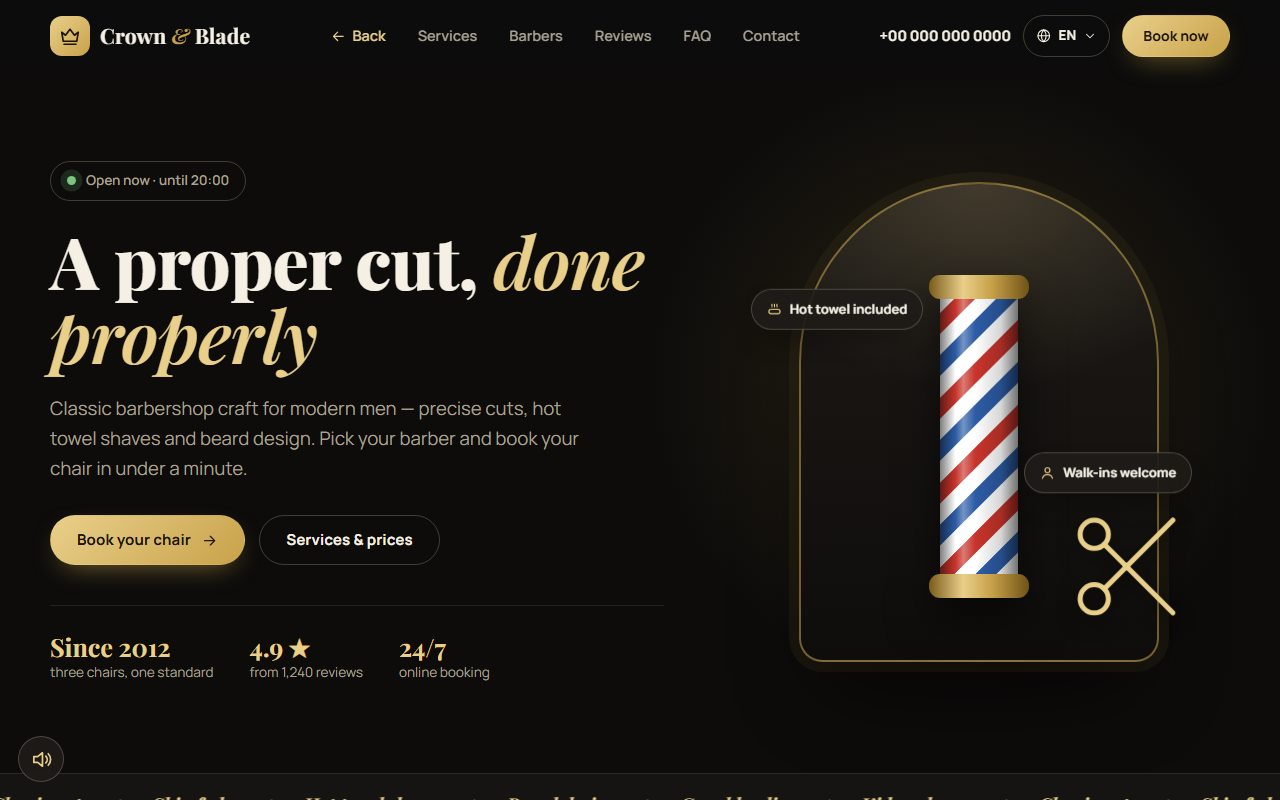
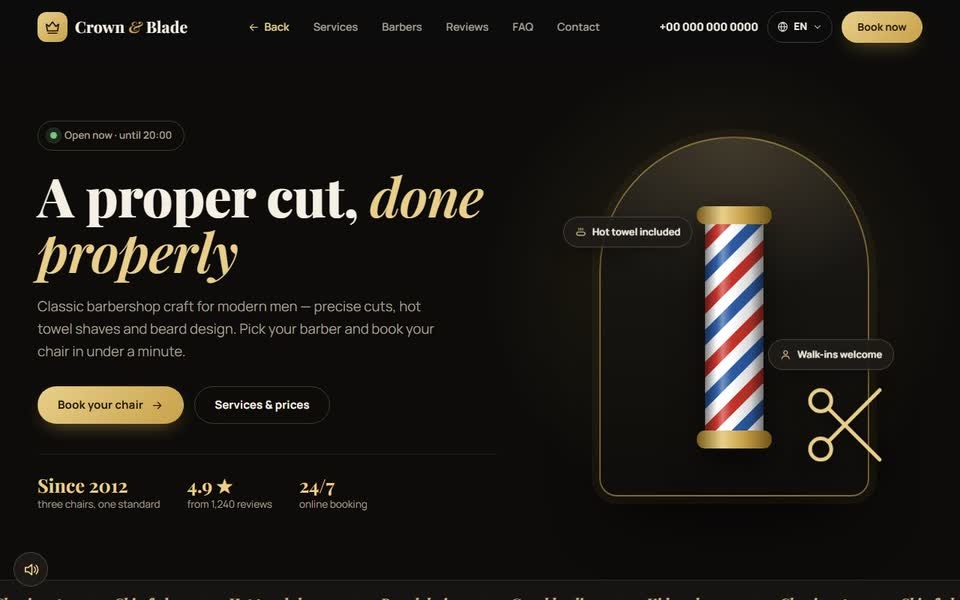
Performance pass: lighter demo screenshots, lazy poster and country list, content-visibility for sections, light mode for weak devices

Changed region(s): [[0.2188, 0.66, 0.3125, 0.69], [0.0625, 0.66, 0.1562, 0.69], [0.7188, 0.03, 0.75, 0.06]]

diff --git a/index.html b/index.html
@@ -17,6 +17,7 @@
      stale cached copy — force a real reload that bypasses the
      cache. Bump PAGE_BUILD here AND the number in version.json on
      every deploy that changes css/js/images/markup. -->
+<script>try{var n=navigator,c=n.connection||{};if((n.hardwareConcurrency&&n.hardwareConcurrency<=4)||(n.deviceMemory&&n.deviceMemory<=4)||c.saveData){document.documentElement.className+=' perf-lite'}}catch(e){}</script>
 <script>
 (function(){
   var PAGE_BUILD = 58;
@@ -97,7 +98,7 @@
 <link href="https://fonts.googleapis.com/css2?family=Space+Grotesk:wght@400;500;600;700&family=Inter:wght@400;500;600&display=swap" rel="stylesheet" media="print" onload="this.media='all'">
 <noscript><link href="https://fonts.googleapis.com/css2?family=Space+Grotesk:wght@400;500;600;700&family=Inter:wght@400;500;600&display=swap" rel="stylesheet"></noscript>
 
-<link rel="stylesheet" href="css/style.css?v=98">
+<link rel="stylesheet" href="css/style.css?v=99">
 </head>
 <body>
 
@@ -194,7 +195,7 @@
       <p class="section-intro" data-i18n="video_intro">A short video about the services and the five demo websites — with a voice-over in your language.</p>
     </div>
     <div class="video-frame">
-      <video id="introVideo" data-key="en" controls playsinline preload="none" poster="images/video-poster-en.jpg?v=3" src="videos/webworks-en.mp4?v=5" data-i18n-aria="video_aria" aria-label="Introduction video"></video>
+      <video id="introVideo" data-key="en" controls playsinline preload="none" src="videos/webworks-en.mp4?v=5" data-i18n-aria="video_aria" aria-label="Introduction video"></video>
     </div>
   </div>
 </section>
@@ -377,7 +378,7 @@
             <span class="mock-dot"></span><span class="mock-dot"></span><span class="mock-dot"></span>
             <span class="mock-url">AutoService — demo</span>
           </div>
-          <img src="images/autoservice-demo.jpg?v=3" alt="Screenshot of the AutoService demo website" data-i18n-alt="alt_p1" loading="lazy">
+          <img src="images/autoservice-demo.jpg?v=9" alt="Screenshot of the AutoService demo website" data-i18n-alt="alt_p1" width="960" height="600" loading="lazy" decoding="async">
         </a>
       </div>
       <div>
@@ -414,7 +415,7 @@
             <span class="mock-dot"></span><span class="mock-dot"></span><span class="mock-dot"></span>
             <span class="mock-url">Crown &amp; Blade — demo</span>
           </div>
-          <img src="images/barbershop-demo.jpg?v=1" alt="Screenshot of the Crown &amp; Blade barbershop demo website" data-i18n-alt="alt_p2" loading="lazy">
+          <img src="images/barbershop-demo.jpg?v=9" alt="Screenshot of the Crown &amp; Blade barbershop demo website" data-i18n-alt="alt_p2" width="960" height="600" loading="lazy" decoding="async">
         </a>
       </div>
       <div>
@@ -451,7 +452,7 @@
             <span class="mock-dot"></span><span class="mock-dot"></span><span class="mock-dot"></span>
             <span class="mock-url">VoltForge — demo</span>
           </div>
-          <img src="images/electronics-demo.jpg?v=1" alt="Screenshot of the VoltForge electronics demo website" data-i18n-alt="alt_p3" loading="lazy">
+          <img src="images/electronics-demo.jpg?v=9" alt="Screenshot of the VoltForge electronics demo website" data-i18n-alt="alt_p3" width="960" height="600" loading="lazy" decoding="async">
         </a>
       </div>
       <div>
@@ -488,7 +489,7 @@
             <span class="mock-dot"></span><span class="mock-dot"></span><span class="mock-dot"></span>
             <span class="mock-url">OrderFlow — demo</span>
           </div>
-          <img src="images/business-tools-demo.jpg?v=1" alt="Screenshot of the OrderFlow business tools demo website" data-i18n-alt="alt_p4" loading="lazy">
+          <img src="images/business-tools-demo.jpg?v=9" alt="Screenshot of the OrderFlow business tools demo website" data-i18n-alt="alt_p4" width="960" height="600" loading="lazy" decoding="async">
         </a>
       </div>
       <div>
@@ -525,7 +526,7 @@
             <span class="mock-dot"></span><span class="mock-dot"></span><span class="mock-dot"></span>
             <span class="mock-url">ClearForm — demo</span>
           </div>
-          <img src="images/contact-forms-demo.jpg?v=1" alt="Screenshot of the ClearForm contact forms demo website" data-i18n-alt="alt_p5" loading="lazy">
+          <img src="images/contact-forms-demo.jpg?v=9" alt="Screenshot of the ClearForm contact forms demo website" data-i18n-alt="alt_p5" width="960" height="600" loading="lazy" decoding="async">
         </a>
       </div>
       <div>
@@ -653,9 +654,9 @@
     <div class="inquiry-form" id="projectForm">
       <div class="inquiry-head">
         <div class="inquiry-devices" aria-hidden="true">
-          <div class="dev dev-tablet"><img src="images/barbershop-demo.jpg?v=1" alt="" loading="lazy" decoding="async"></div>
-          <div class="dev dev-laptop"><img src="images/autoservice-demo.jpg?v=1" alt="" loading="lazy" decoding="async"><span class="dev-base"></span></div>
-          <div class="dev dev-phone"><img src="images/business-tools-demo.jpg?v=1" alt="" loading="lazy" decoding="async"></div>
+          <div class="dev dev-tablet"><img src="images/barbershop-demo.jpg?v=9" alt="" loading="lazy" decoding="async"></div>
+          <div class="dev dev-laptop"><img src="images/autoservice-demo.jpg?v=9" alt="" loading="lazy" decoding="async"><span class="dev-base"></span></div>
+          <div class="dev dev-phone"><img src="images/business-tools-demo.jpg?v=9" alt="" loading="lazy" decoding="async"></div>
         </div>
         <span class="inquiry-ico" aria-hidden="true"><svg viewBox="0 0 24 24"><path d="M21 3 10 14"/><path d="M21 3 14.5 21l-4.5-7-7-4.5z"/></svg></span>
         <div class="inquiry-headtext">
@@ -804,6 +805,6 @@
   </div>
 </footer>
 
-<script src="js/script.js?v=84" defer></script>
+<script src="js/script.js?v=85" defer></script>
 </body>
 </html>

diff --git a/js/script.js b/js/script.js
@@ -717,7 +717,8 @@
     v.pause();
     var frame = v.parentNode;
     if (frame && frame.classList){ frame.classList.toggle("is-portrait", portrait); }
-    v.setAttribute("poster", "images/video-poster-" + key + ".jpg?v=3");
+    v.setAttribute("data-poster", "images/video-poster-" + key + ".jpg?v=3");
+    if (v.getAttribute("data-near")){ v.setAttribute("poster", v.getAttribute("data-poster")); }
     v.setAttribute("src", "videos/webworks-" + key + ".mp4?v=5");
     try { v.load(); } catch (e) { /* ignore */ }
   }
@@ -1120,14 +1121,19 @@
 
     if (!btn || !dropdown) return api;
 
-    dropdown.innerHTML = COUNTRY_CODES.map(function(c, i){
-      return '<div class="country-option" role="option" data-index="' + i + '" tabindex="-1">' +
-        // Decorative: the country name is written right next to the flag
-        '<img class="country-flag-img" src="https://flagcdn.com/24x18/' + c.iso2 + '.png" alt="" loading="lazy">' +
-        '<span class="country-option-code">' + c.code + '</span>' +
-        '<span class="country-option-name">' + localCountryName(c) + '</span>' +
-        '</div>';
-    }).join("");
+    var optionsBuilt = false;
+    function buildOptions(){
+      if (optionsBuilt) return;
+      optionsBuilt = true;
+      dropdown.innerHTML = COUNTRY_CODES.map(function(c, i){
+        return '<div class="country-option" role="option" data-index="' + i + '" tabindex="-1">' +
+          // Decorative: the country name is written right next to the flag
+          '<img class="country-flag-img" src="https://flagcdn.com/24x18/' + c.iso2 + '.png" alt="" loading="lazy">' +
+          '<span class="country-option-code">' + c.code + '</span>' +
+          '<span class="country-option-name">' + localCountryName(c) + '</span>' +
+          '</div>';
+      }).join("");
+    }
 
     function selectCountry(country){
       selected = country;
@@ -1146,6 +1152,7 @@
       btn.setAttribute("aria-expanded", "false");
     }
     function openDropdown(){
+      buildOptions();
       dropdown.classList.add("open");
       btn.setAttribute("aria-expanded", "true");
     }
@@ -1155,13 +1162,12 @@
       if (dropdown.classList.contains("open")){ closeDropdown(); } else { openDropdown(); }
     });
 
-    var options = dropdown.querySelectorAll(".country-option");
-    for (var oi = 0; oi < options.length; oi++){
-      options[oi].addEventListener("click", function(){
-        selectCountry(COUNTRY_CODES[Number(this.getAttribute("data-index"))]);
-        closeDropdown();
-      });
-    }
+    dropdown.addEventListener("click", function(e){
+      var opt = e.target.closest ? e.target.closest(".country-option") : null;
+      if (!opt) return;
+      selectCountry(COUNTRY_CODES[Number(opt.getAttribute("data-index"))]);
+      closeDropdown();
+    });
 
     document.addEventListener("click", function(e){
       if (box && !box.contains(e.target)){ closeDropdown(); }
@@ -2169,7 +2175,7 @@
       if (!running){ return; }
       requestAnimationFrame(frame);
       if (document.hidden) return;
-      if (ts - last < (window.innerWidth < 860 ? 66 : 42)) return;   // ~15 fps on phones, ~24 fps elsewhere
+      if (ts - last < ((window.innerWidth < 860 || document.documentElement.classList.contains("perf-lite")) ? 83 : 42)) return;   // ~15 fps on phones, ~24 fps elsewhere
       last = ts; tick += 1;
       ctx.clearRect(0, 0, W, H);
       ctx.textBaseline = "top";
@@ -2209,9 +2215,12 @@
     // code streams over the photo
     initCodeFx(document.getElementById("heroPhoto"), document.getElementById("codeFx"),
                { zones: [[0.02, 0.36, 0.04, 0.98], [0.72, 0.99, 0.02, 0.48]], alpha: 0.4, gap: 8.2 });
-    // code streams across the whole hero background (masked to the side margins in CSS)
-    initCodeFx(document.querySelector(".hero"), document.getElementById("heroBg"),
-               { zones: [[0, 1, 0.02, 0.98]], alpha: 0.28, gap: 11, fs: 13 });
+    // code streams across the whole hero background (masked to the side margins in CSS);
+    // skipped on weak devices ("perf-lite", set in <head>) and on phones
+    if (!document.documentElement.classList.contains("perf-lite") && window.innerWidth >= 700){
+      initCodeFx(document.querySelector(".hero"), document.getElementById("heroBg"),
+                 { zones: [[0, 1, 0.02, 0.98]], alpha: 0.28, gap: 11, fs: 13 });
+    }
   }
 
 
@@ -2353,5 +2362,19 @@
     var t = "2";
     try { var q = new URLSearchParams(location.search).get("formtheme"); if (q && /^[1-4]$/.test(q)) t = q; } catch (e) { /* ignore */ }
     f.setAttribute("data-theme", t);
+  })();
+
+  /* Intro video poster: fetched only when the video block is close to the screen. */
+  (function(){
+    var v = document.getElementById("introVideo");
+    if (!v) return;
+    function attach(){
+      v.setAttribute("data-near", "1");
+      var p = v.getAttribute("data-poster") || ("images/video-poster-" + (v.getAttribute("data-key") || "en") + ".jpg?v=3");
+      v.setAttribute("poster", p);
+    }
+    if (!("IntersectionObserver" in window)){ attach(); return; }
+    var io = new IntersectionObserver(function(e){ if (e[0].isIntersecting){ attach(); io.disconnect(); } }, { rootMargin: "400px 0px" });
+    io.observe(v);
   })();
 })();

diff --git a/css/style.css b/css/style.css
@@ -2085,3 +2085,19 @@
   .inquiry-form .messenger-opt-tg:has(input:checked){ background:linear-gradient(145deg, #2aabee, #1688c8); }
   .inquiry-form .messenger-opt-none:has(input:checked){ background:linear-gradient(145deg, #6f778c, #4a5164); color:#fff; }
   .inquiry-form .messenger-opt:has(input:checked) .messenger-icon{ background:rgba(255,255,255,.28); box-shadow:inset 0 0 0 1.5px rgba(255,255,255,.8); }
+
+  /* ==========================================================
+     PERFORMANCE II
+     - sections below the fold are only laid out / painted when they get close to the screen
+     - "perf-lite" (weak CPU / little memory / data saver): every infinite animation plays once and stops,
+       heavy layers (blur, hero canvas, glows) are off
+     ========================================================== */
+  #services, #what-i-build, #projects, #process, #why, #guarantees{
+    content-visibility:auto; contain-intrinsic-size:auto 560px;
+  }
+  .perf-lite *, .perf-lite *::before, .perf-lite *::after{ animation-iteration-count:1 !important; }
+  .perf-lite .hero-bg{ display:none; }
+  .perf-lite .site-header{ backdrop-filter:none; -webkit-backdrop-filter:none; background:#f6f5f0; }
+  .perf-lite #process::before, .perf-lite #why::before, .perf-lite #guarantees::before, .perf-lite #contact::before{ display:none; }
+  .perf-lite .hero-photo .code-fx{ mix-blend-mode:normal; }
+  @media (max-width: 860px){ .site-header{ backdrop-filter:none; -webkit-backdrop-filter:none; background:#f6f5f0; } }
